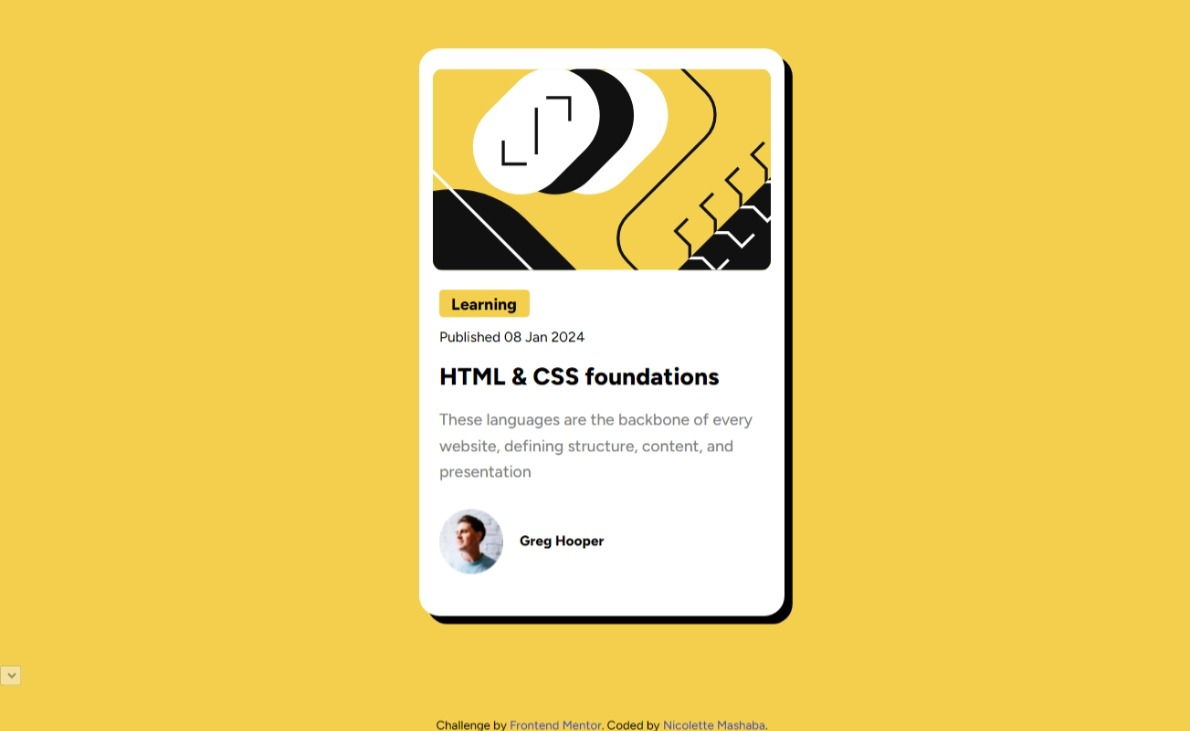
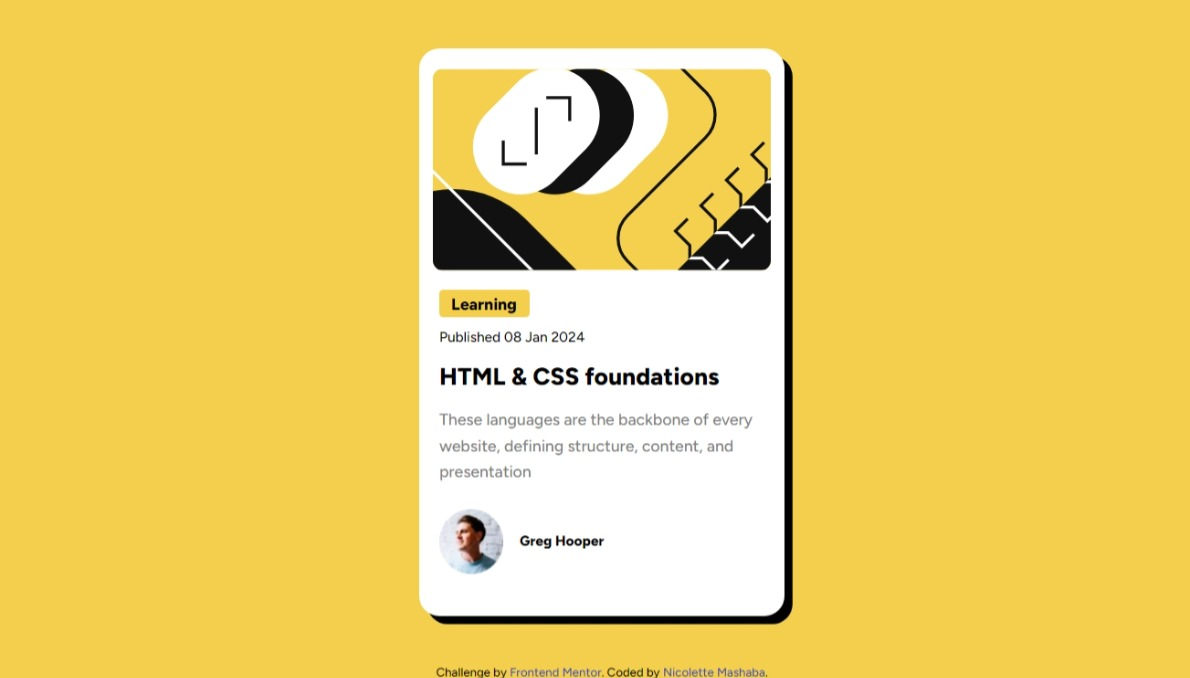
adding screenshot

Changed region(s): [[0.342, 0.0619, 0.684, 0.9292], [0.0, 0.8982, 0.0311, 0.9602]]

diff --git a/index.html b/index.html
@@ -28,7 +28,7 @@
         <img src="./assets/images/image-avatar.webp" alt="Blog Post Avatar">
         <h4>Greg Hooper</h4>
       </div>
-      </section><select name="" id="" disabled="disabled"></select>
+      </section>
       <footer class="attribution">
         Challenge by
         <a href="https://www.frontendmentor.io?ref=challenge" target="_blank"
